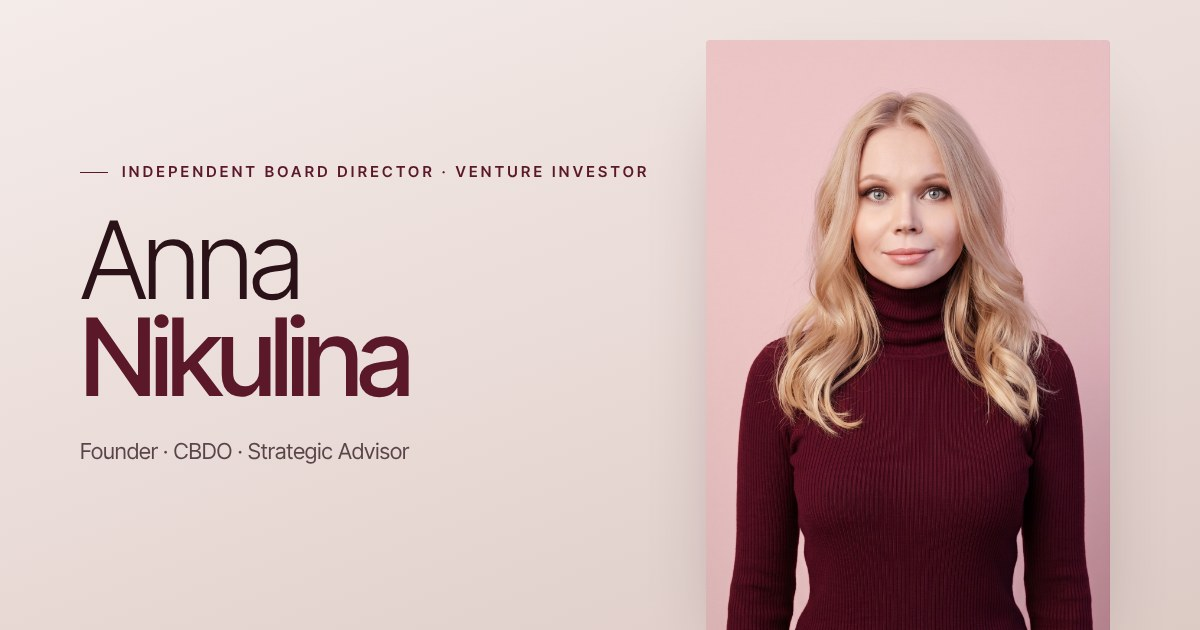
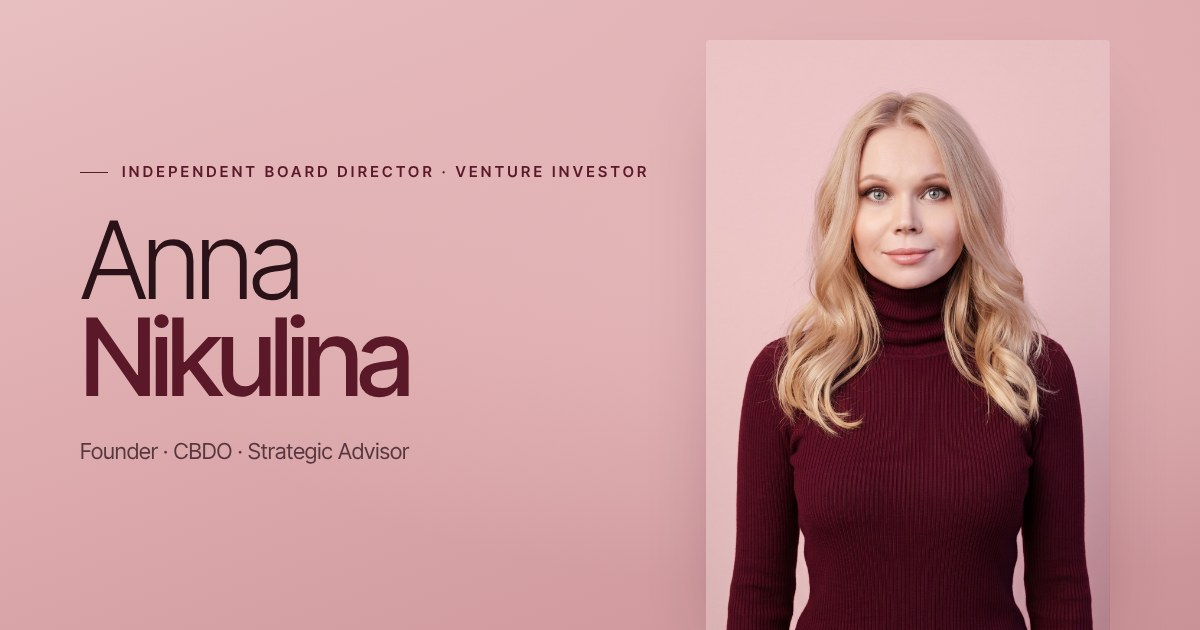
Palette tone-on-tone with the portrait background
Claude-Session: https://claude.ai/code/session_017zF6NKWSFQoNCEWFPX3gsG

diff --git a/assets/site.css b/assets/site.css
@@ -14,15 +14,15 @@
 
 /* ---------- Tokens: palette taken from the portrait ---------- */
 :root{
-  --blush:#e4cfca;        /* muted nude, a calmer take on the photo background */
-  --blush-soft:#f2e9e6;
-  --blush-deep:#cfb8b2;
+  --blush:#ecc5c6;        /* exact photo background (hue 358) */
+  --blush-soft:#f6eeef;   /* same hue, very light */
+  --blush-deep:#c99297;   /* same hue, deeper */
   --wine:#5a1828;         /* sweater */
   --wine-2:#7a2638;
   --wine-deep:#2c0b14;
-  --cream:#fbf6f3;
+  --cream:#fbf7f7;        /* neutral with a hint of the photo hue */
   --text:#2a1218;
-  --muted:#7b5c62;
+  --muted:#7d5b61;
   --line:rgba(42,18,24,.13);
   --on-dark:#f7e9e7;
   --on-dark-muted:rgba(247,233,231,.66);
@@ -68,7 +68,7 @@ ul{padding:0;list-style:none}
 .lang a[aria-current="page"]{background:var(--wine);color:var(--cream)}
 
 /* ---------- Hero ---------- */
-.hero{position:relative;min-height:100vh;min-height:100svh;display:flex;align-items:flex-end;overflow:hidden;background:linear-gradient(160deg,#f4ece9 0%,#eadcd8 48%,#dccac5 100%);isolation:isolate}
+.hero{position:relative;min-height:100vh;min-height:100svh;display:flex;align-items:flex-end;overflow:hidden;background:radial-gradient(90% 70% at 72% 45%,rgba(236,197,198,.55) 0%,rgba(236,197,198,0) 70%),linear-gradient(160deg,#e8bfc1 0%,#dca8ab 50%,#c99297 100%);isolation:isolate}
 .hero-word-wrap{position:absolute;inset:0;z-index:-1;pointer-events:none;will-change:transform}
 .hero-word{position:absolute;left:54%;top:14%;white-space:nowrap;font-weight:600;font-size:clamp(120px,22vw,340px);line-height:.8;letter-spacing:-.06em;color:transparent;-webkit-text-stroke:1px rgba(90,24,40,.16);pointer-events:none;user-select:none;will-change:transform}
 .hero .wrap{display:grid;grid-template-columns:1.15fr .85fr;align-items:end;gap:56px;padding-top:120px}
@@ -87,7 +87,7 @@ ul{padding:0;list-style:none}
 .btn-outline{border:1px solid rgba(42,18,24,.28);color:var(--text)}
 .btn-outline:hover{border-color:var(--wine);color:var(--wine)}
 .btn-blush{background:var(--blush);color:var(--wine-deep)}
-.btn-blush:hover{background:#efe0dc}
+.btn-blush:hover{background:#f3d6d7}
 .btn-ghost{border:1px solid var(--line-dark);color:var(--on-dark)}
 .btn-ghost:hover{border-color:var(--blush);color:var(--blush)}
 

diff --git a/CLAUDE.md b/CLAUDE.md
@@ -6,7 +6,7 @@
 ## Структура
 - `tools/build.py` — ЕДИНСТВЕННЫЙ источник текстов и разметки. Словарь `CONTENT` содержит обе версии (ru, en). Шаблон страницы в функции `page()`.
 - `annanikulina/index.html`, `en/index.html` — СГЕНЕРИРОВАННЫЕ файлы. Руками не править, пересобирать: `python3 tools/build.py .`
-- `assets/site.css` — дизайн. Палитра: приглушённый нюдовый (#f4ece9, #eadcd8, акцент #e4cfca), сдержанно-деловая, бордо #5a1828, тёмное вино #2c0b14, крем #fbf6f3. Шрифт Inter Tight (лежит в `assets/fonts/`). Без арок и антиквы: пользователю они не нравятся.
+- `assets/site.css` — дизайн. Палитра тон-в-тон с фото (оттенок 358°): фон первого экрана глубже и насыщеннее фона фото (#e8bfc1 → #dca8ab → #c99297), фон фото #ecc5c6, светлые блоки #fbf7f7 и #f6eeef, бордо #5a1828, тёмное вино #2c0b14, крем #fbf6f3. Шрифт Inter Tight (лежит в `assets/fonts/`). Без арок и антиквы: пользователю они не нравятся.
 - `assets/site.js` — параллакс (`data-speed` по вертикали, `data-x` по горизонтали, `data-fade`), сияние кнопок за курсором (класс `glow`), появление блоков, меню, видео-плеер.
 - `assets/img/anna-portrait.jpg` — портрет 1368x2000. НЕ редактировать, не обрезать, не перекрашивать файл (требование пользователя).
 - `assets/img/og-cover.jpg` — превью для соцсетей 1200x630, `favicon.svg`.
